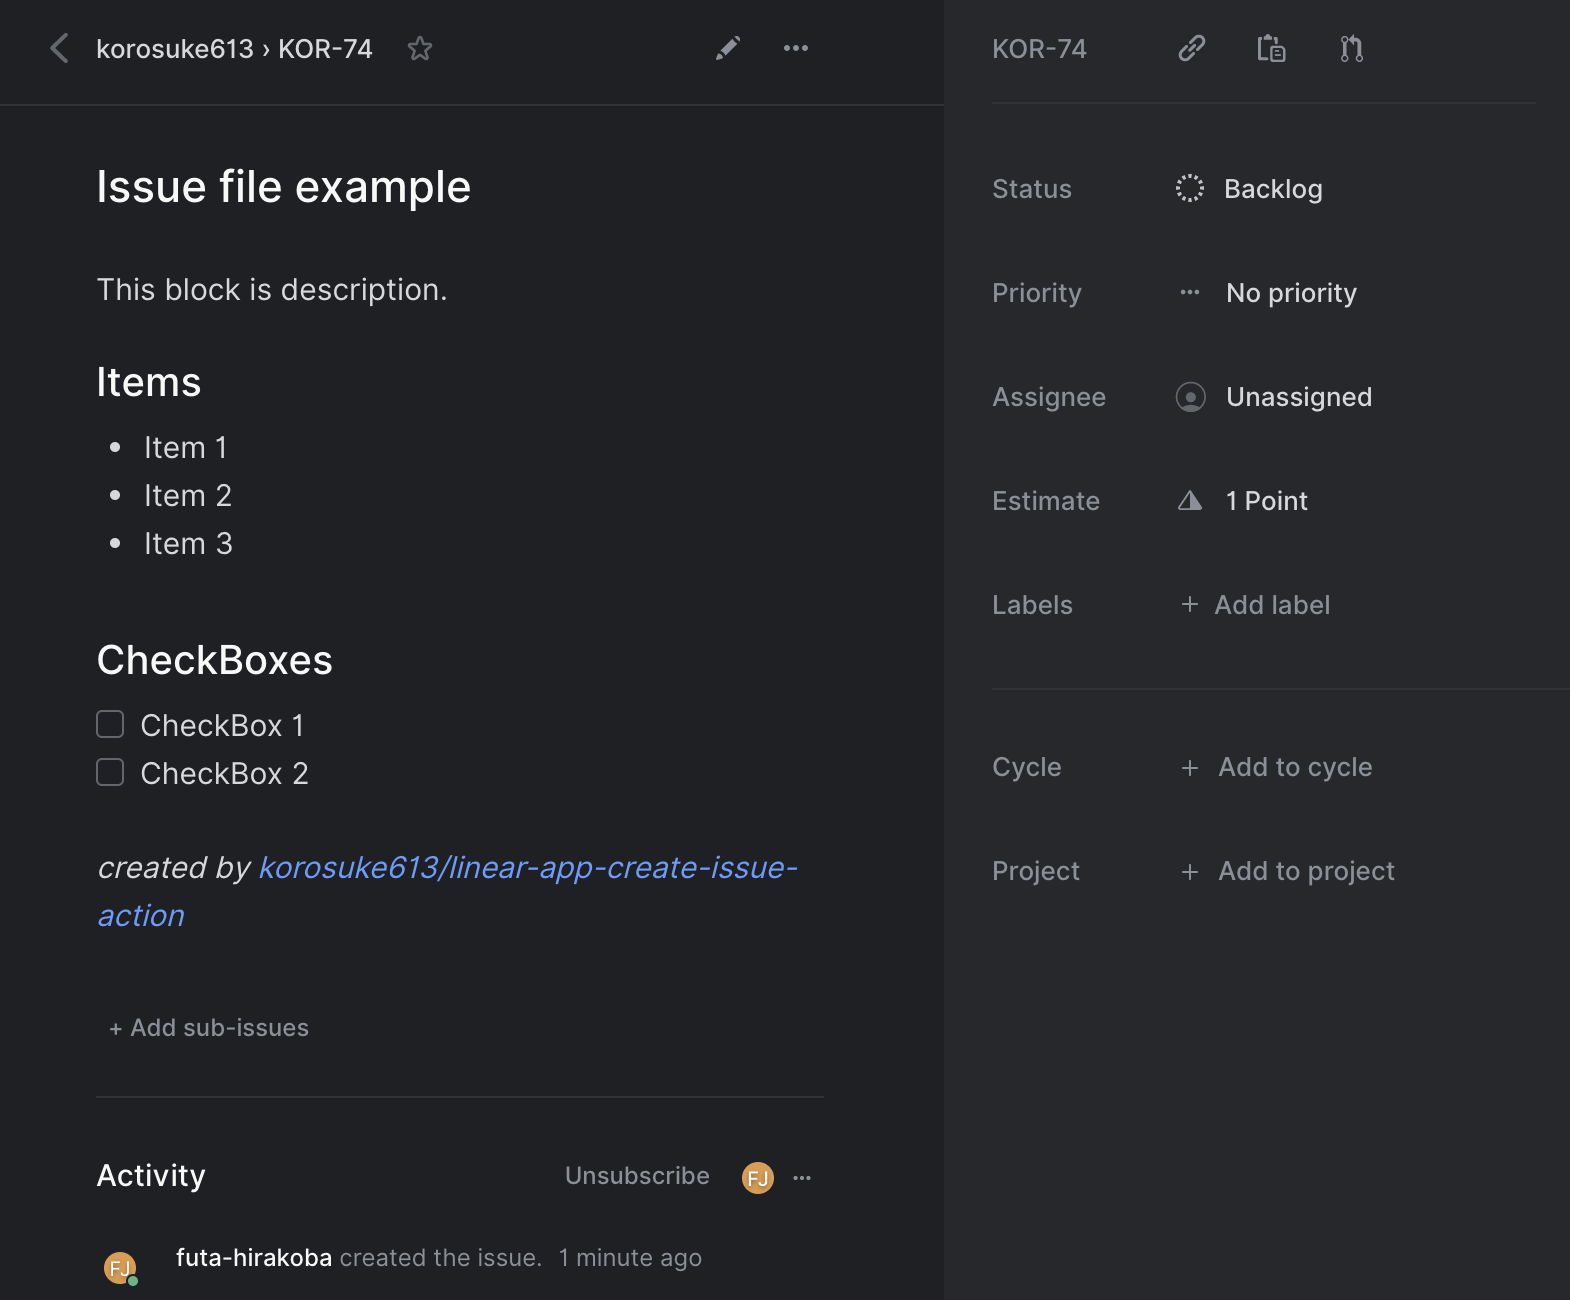
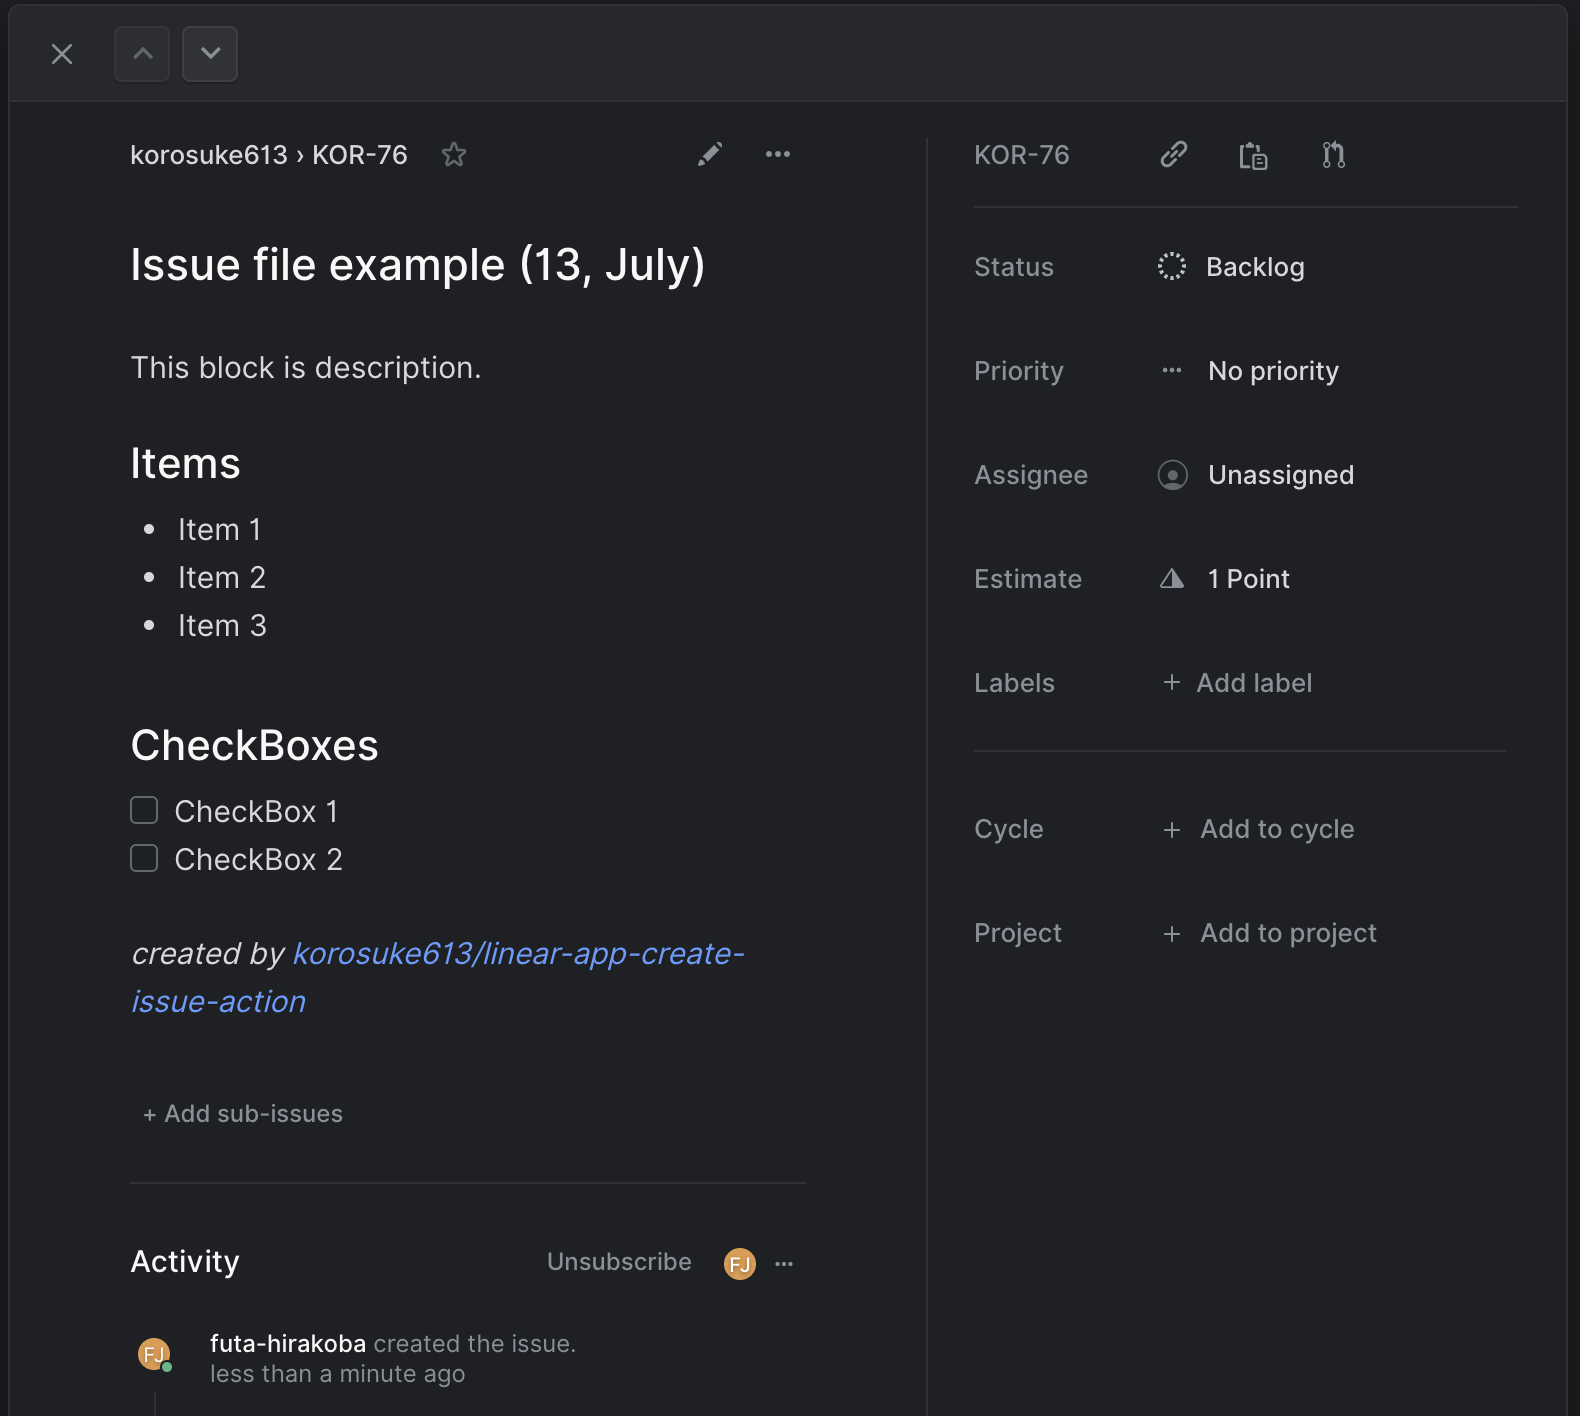
chore: update README.md

diff --git a/README.md b/README.md
@@ -16,20 +16,19 @@ See [action.yml](./action.yml)
 |teamId|team id of Linear.app ([ref](#faq-get-teamid-stateid))|yes|string|
 |stateId|state id of Linear.app ([ref](#faq-get-teamid-stateid))|yes|string|
 |isDryrun|enable dryrun (not create issue) |no|boolean|
+|embed|embed variable. (ex: "month=July,day=13")|no|string|
 
-## Pre-requisites
+## Usage
 
-### Workflow
-Create a workflow `.yml` file in your repositories `.github/workflows` directory. An example workflow is available below. For more information, reference the GitHub Help Documentation for [Creating a workflow file](https://help.github.com/en/articles/configuring-a-workflow#creating-a-workflow-file).
-
-### Issue file
+### Create Issue file
 Create issue file in markdown format. Write the contents of [IssueCreateInput](https://github.com/linear/linear/blob/8553690da1455e2f6a109bed65223bc5400fa7c2/packages/sdk/src/schema.graphql#L2021) in YAML format on the line enclosed by ---. title is required.
 
-#### Example workflow
+If you want to change the value of YAML dynamically, you can replace `${something}` when executing the action.
+
 [example-issue.md](./example/example-issue.md)
 ```markdown
 ---
-title: Issue file example  # title is required
+title: Issue file example (${day}, ${month}) # title is required
 estimate: 1
 ---
 This block is description.
@@ -46,6 +45,10 @@ This block is description.
 *created by [korosuke613/linear-app-create-issue-action](https://github.com/korosuke613/linear-app-create-issue-action)*
 ```
 
+### Create Workflow
+Create a workflow `.yml` file in your repositories `.github/workflows` directory. An example workflow is available below. For more information, reference the GitHub Help Documentation for [Creating a workflow file](https://help.github.com/en/articles/configuring-a-workflow#creating-a-workflow-file).
+
+If you want to replace ${something} in YAML, use `embed` with `key1=value1,key2=value2,...`.
 
 [create-issue-every-friday.yml](example/create-issue-every-friday.yml)
 ```yaml
@@ -65,6 +68,7 @@ jobs:
           apiKey: ${{ secrets.YOUR_API_TOKEN_OF_LINEAR_APP }}
           teamId: ${{ secrets.YOUR_TEAM_ID_OF_LINEAR_APP }}
           stateId: ${{ secrets.YOUR_STATE_ID_OF_LINEAR_APP }}
+          embed: month=July,day=13
 ```
 
 **result**
